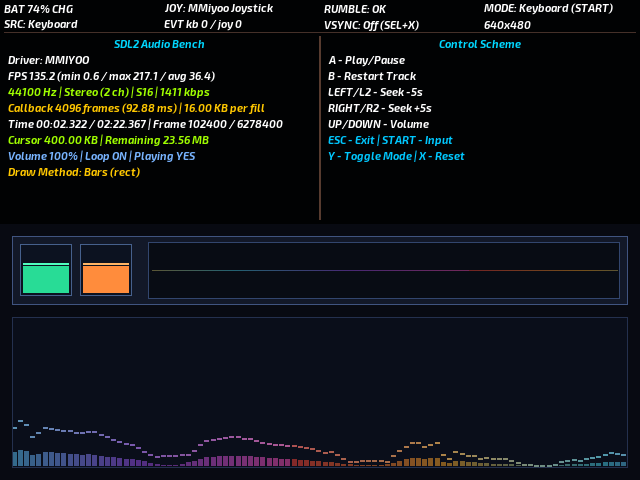
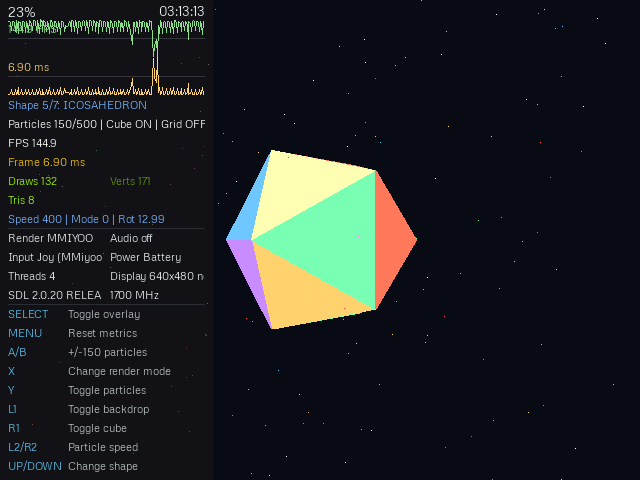
docs: refresh gallery screenshots with the new overlay panel
Replaces four stale screenshots (006/009/010/011) with three fresh
on-device captures of the redesigned overlay (sprite_bench, and
obj_model_loader with the sheep and miyoo models), also refreshing the
still-present 012/013/014 slots with current captures. One fewer image
than before, so the gallery's last row is a single cell instead of two.

diff --git a/README.md b/README.md
@@ -16,11 +16,11 @@ The generated package is written to `app-dist/sdl_bench/`.
 <table>
   <tr>
     <td align="center"><img src="assets/sdl_bench_008.png" width="300"></td>
-    <td align="center"><img src="assets/sdl_bench_009.png" width="300"></td>
+    <td align="center"><img src="assets/sdl_bench_015.png" width="300"></td>
   </tr>
   <tr>
-    <td align="center"><img src="assets/sdl_bench_010.png" width="300"></td>
-    <td align="center"><img src="assets/sdl_bench_011.png" width="300"></td>
+    <td align="center"><img src="assets/sdl_bench_016.png" width="300"></td>
+    <td align="center"><img src="assets/sdl_bench_017.png" width="300"></td>
   </tr>
   <tr>
     <td align="center"><img src="assets/sdl_bench_012.png" width="300"></td>
@@ -28,7 +28,6 @@ The generated package is written to `app-dist/sdl_bench/`.
   </tr>
   <tr>
     <td align="center"><img src="assets/sdl_bench_014.png" width="300"></td>
-    <td align="center"><img src="assets/sdl_bench_006.png" width="300"></td>
   </tr>
 </table>
 
